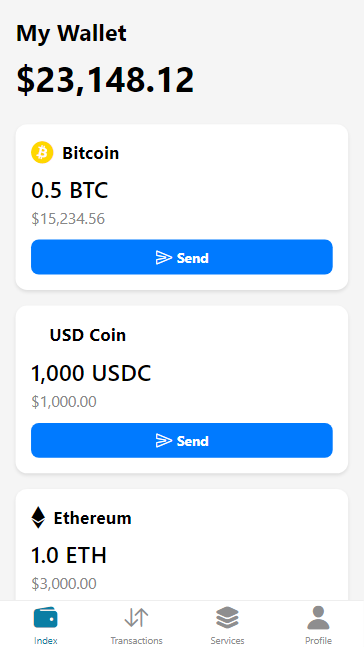
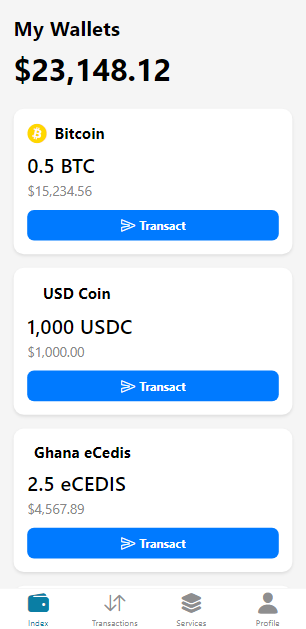
wallet_screen img update

diff --git a/kApp/app/(tabs)/index.tsx b/kApp/app/(tabs)/index.tsx
@@ -13,7 +13,7 @@ const CryptoCard = ({ name, symbol, balance, value, icon, color, onSend }) => (
     <Text style={styles.value}>${value}</Text>
     <TouchableOpacity style={styles.sendButton} onPress={() => onSend(symbol)}>
       <Ionicons name="send-outline" size={18} color="#FFFFFF" />
-      <Text style={styles.sendButtonText}>Send</Text>
+      <Text style={styles.sendButtonText}>Transact</Text>
     </TouchableOpacity>
   </View>
 );
@@ -23,8 +23,8 @@ export default function Wallets() {
     { name: 'Bitcoin', symbol: 'BTC', balance: '0.5', value: '15,234.56', icon: 'bitcoin', color: "gold" },
     { name: 'USD Coin', symbol: 'USDC', balance: '1,000', value: '1,000.00', icon: 'logo-usd', color: "#FFFFFF" },
     // { name: 'Ethereum', symbol: 'ETH', balance: '1.0', value: '3,000.00', icon: 'ethereum', color: " #497493" }, 
-    { name: 'Ghana Cedis', symbol: 'eCEDIS', balance: '2.5', value: '4,567.89', icon: 'logo-cedi', color: "#000000" },
-    { name: 'Naira', symbol: 'cNGN', balance: '50', value: '2,345.67', icon: 'logo-cNGN', color: "#FF0000" }, // Updated Solana to eNaira
+    { name: 'Ghana eCedis', symbol: 'eCEDIS', balance: '2.5', value: '4,567.89', icon: '', color: "#000000" },
+    { name: 'e-Naira', symbol: 'cNGN', balance: '50', value: '2,345.67', icon: 'logo-cNGN', color: "#FF0000" }, // Updated Solana to eNaira
     { name: 'Celo Kenya Shilling', symbol: 'cKES', balance: '100', value: '1,234.56', icon: 'logo-cKES', color: "#00FF00" }, // Added Celo Kenya Shilling wallet card
   ];
 
